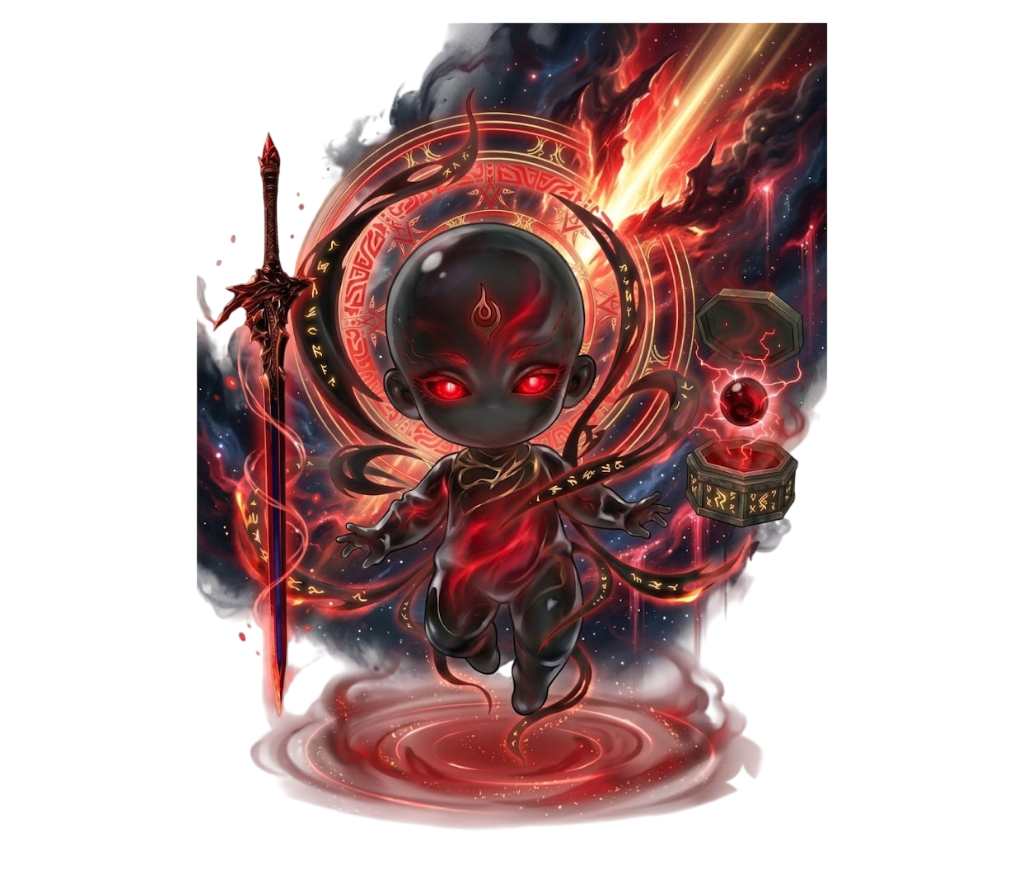
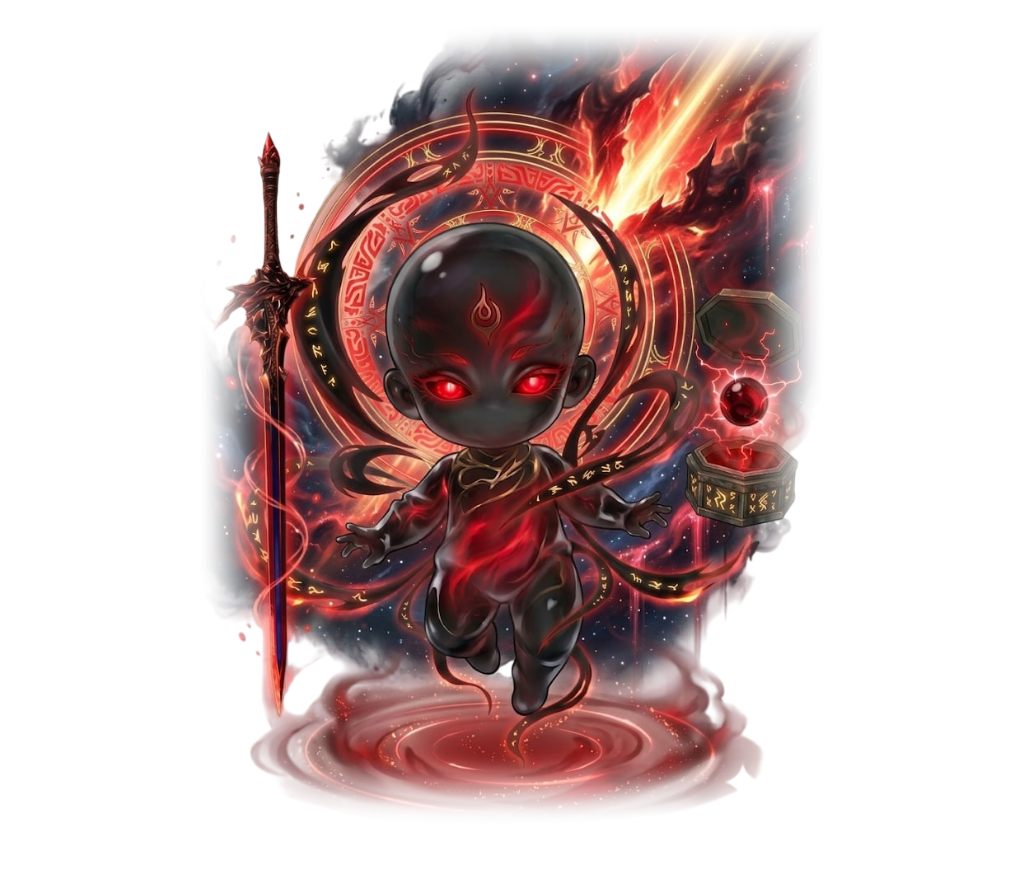
fix(dao-anh): feather alpha edges for cropped Dao Anh images

Changed region(s): [[0.4062, 0.0, 0.8125, 0.6081], [0.2812, 0.8514, 0.7188, 0.9426], [0.1875, 0.3041, 0.2812, 0.6993]]

diff --git a/src/lib/daoAnhBBox.generated.js b/src/lib/daoAnhBBox.generated.js
@@ -92,7 +92,7 @@ export const DAO_ANH_BBOX = {
   'khoi_nguyen_thoi_khong_k2': { cx: 0.5011, cy: 0.4888, w: 0.7744, h: 0.8643, m: 0.2656 },
   'khoi_nguyen_thoi_khong_k3': { cx: 0.4707, cy: 0.4883, w: 0.6133, h: 0.8656, m: 0.2464 },
   'khoi_nguyen_thoi_khong_k4': { cx: 0.4814, cy: 0.5013, w: 0.5801, h: 0.9524, m: 0.356 },
-  'khoi_nguyen_thoi_khong_k5': { cx: 0.5083, cy: 0.5006, w: 0.5908, h: 0.952, m: 0.3686 },
+  'khoi_nguyen_thoi_khong_k5': { cx: 0.5083, cy: 0.5006, w: 0.5518, h: 0.9028, m: 0.3198 },
   'kim_o_luyen_van_linh': { cx: 0.5366, cy: 0.4868, w: 0.7412, h: 0.8799, m: 0.1729 },
   'kim_o_luyen_van_linh_k2': { cx: 0.5371, cy: 0.4868, w: 0.7402, h: 0.8799, m: 0.1907 },
   'kim_o_luyen_van_linh_k3': { cx: 0.5488, cy: 0.4873, w: 0.7363, h: 0.8789, m: 0.2157 },
@@ -176,8 +176,8 @@ export const DAO_ANH_BBOX = {
   'thuong_thuong_hac_huyet': { cx: 0.5589, cy: 0.4795, w: 0.822, h: 0.8105, m: 0.2286 },
   'thuong_thuong_hac_huyet_k2': { cx: 0.5176, cy: 0.5156, w: 0.9229, h: 0.8848, m: 0.359 },
   'thuong_thuong_hac_huyet_k3': { cx: 0.5015, cy: 0.5148, w: 0.6533, h: 0.8379, m: 0.288 },
-  'thuong_thuong_hac_huyet_k4': { cx: 0.5, cy: 0.4803, w: 0.6152, h: 0.9088, m: 0.4454 },
-  'thuong_thuong_hac_huyet_k5': { cx: 0.4883, cy: 0.4805, w: 0.5352, h: 0.9091, m: 0.4105 },
+  'thuong_thuong_hac_huyet_k4': { cx: 0.5, cy: 0.4803, w: 0.5742, h: 0.8615, m: 0.3852 },
+  'thuong_thuong_hac_huyet_k5': { cx: 0.4883, cy: 0.4805, w: 0.5, h: 0.8623, m: 0.3498 },
   'tien_thien_thanh_the_dao_thai': { cx: 0.5078, cy: 0.5464, w: 0.6992, h: 0.8525, m: 0.1735 },
   'tien_thien_thanh_the_dao_thai_k2': { cx: 0.4927, cy: 0.5459, w: 0.7295, h: 0.8535, m: 0.1933 },
   'tien_thien_thanh_the_dao_thai_k3': { cx: 0.4805, cy: 0.5249, w: 0.75, h: 0.9053, m: 0.249 },
